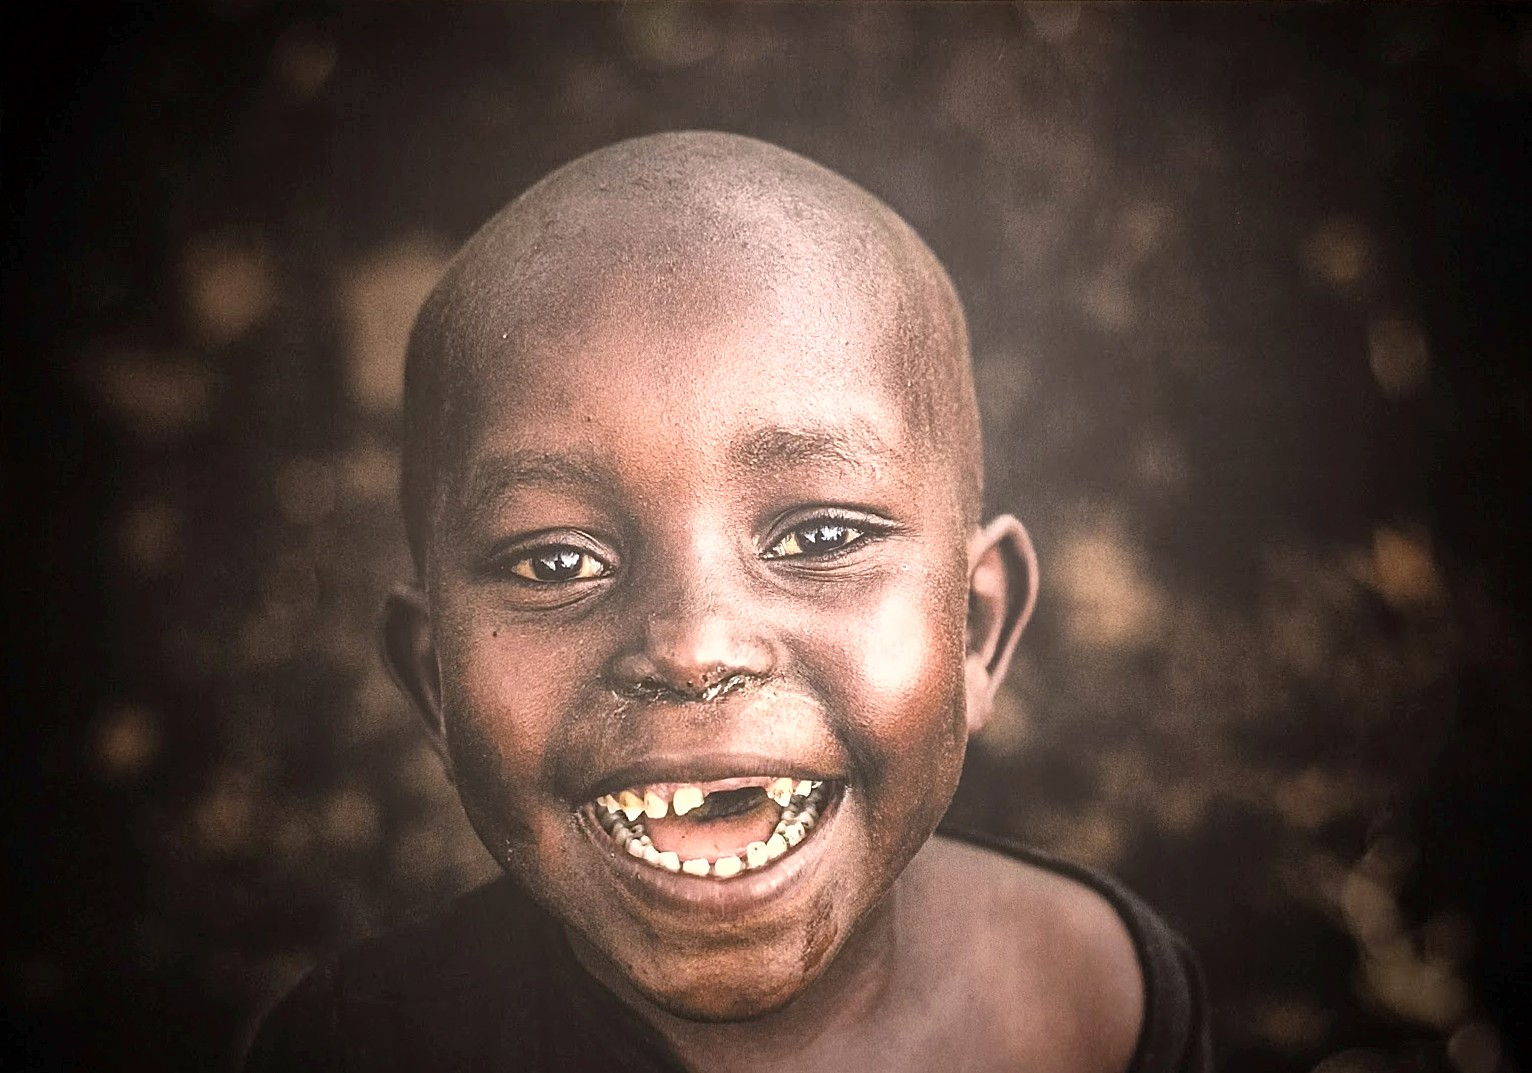
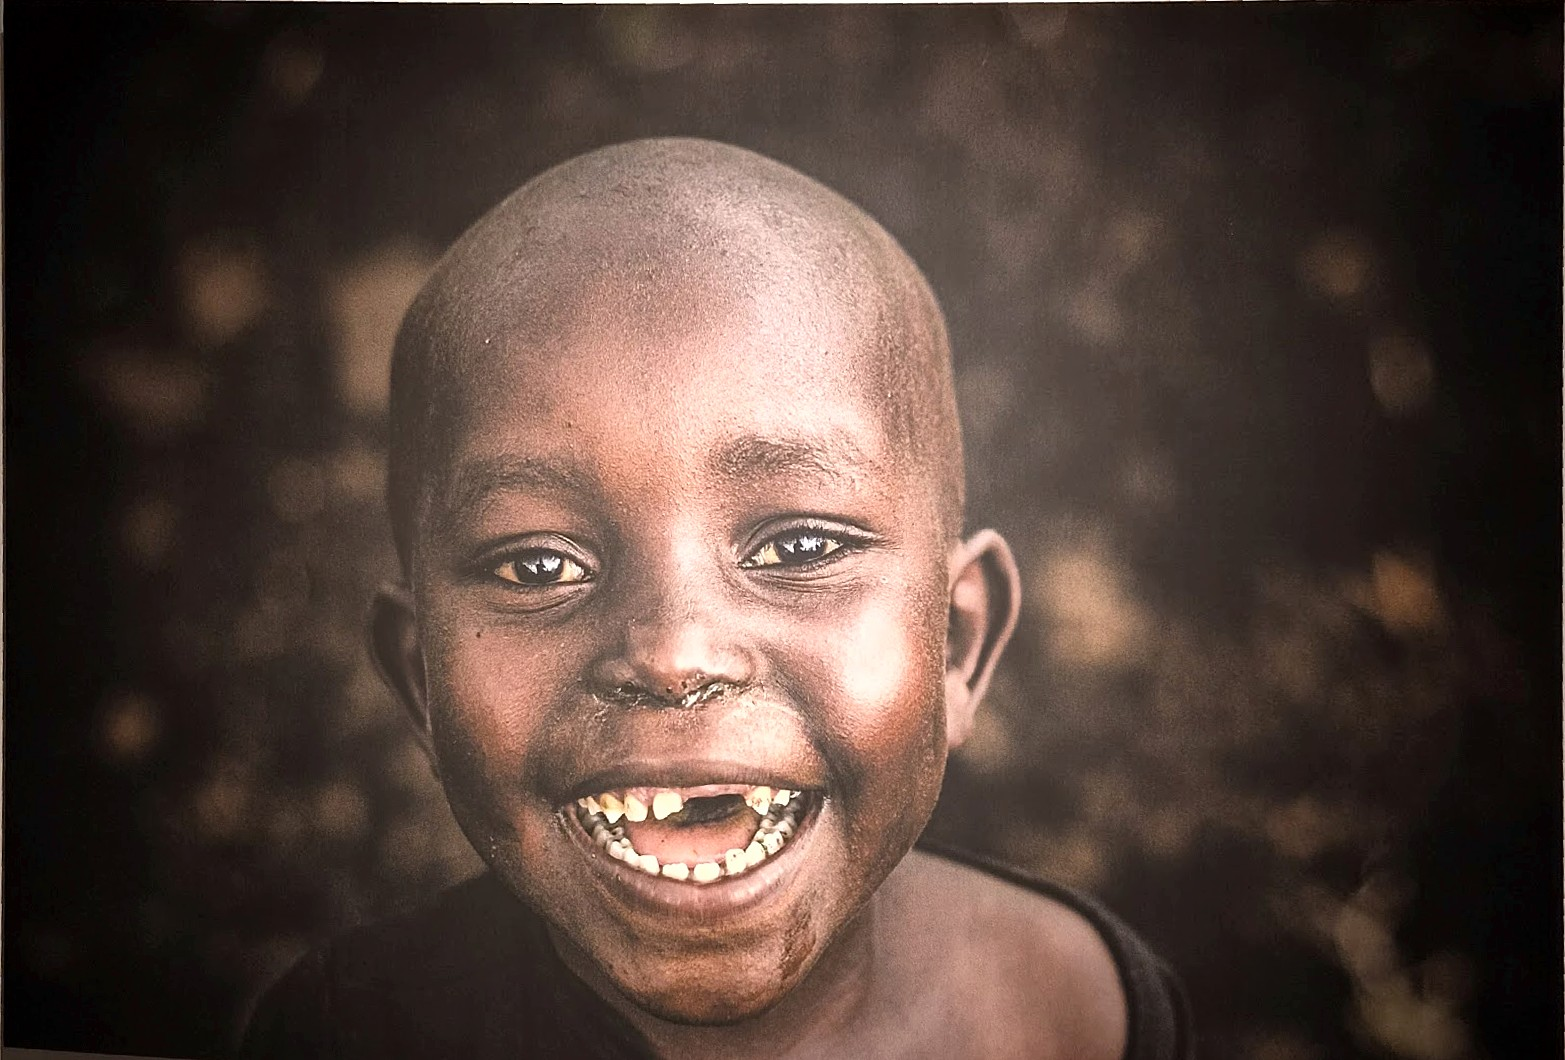
Photos: centrage et marges symetriques mesurees

diff --git a/scripts/enhance-photos.py b/scripts/enhance-photos.py
@@ -22,18 +22,18 @@ MAX_SIDE = 2000
 # wb : balance des blancs gris-moyen légère (désactivée pour les teintes d'auteur, ex. tirages chauds).
 CORNERS = {
     "celanie-1": ([(.035, .02), (.925, .02), (.925, .985), (.035, .985)], False),
-    "celanie-2": ([(.138, .14), (.878, .14), (.878, .935), (.138, .935)], False),
-    "kenof-1": ([(.02, .02), (.99, .02), (.99, .955), (.02, .955)], False),
-    "kenof-2": ([(.02, .03), (.99, .03), (.99, .955), (.02, .955)], False),
+    "celanie-2": ([(.138, .14), (.878, .14), (.878, .845), (.138, .845)], False),
+    "kenof-1": ([(.02, .02), (.99, .02), (.99, .945), (.02, .945)], False),
+    "kenof-2": ([(.02, .03), (.99, .03), (.99, .945), (.02, .945)], False),
     "kenof-3": ([(.02, .025), (.99, .025), (.99, .955), (.02, .955)], False),
     "morere-1": ([(.05, .1), (.95, .1), (.95, .96), (.05, .96)], True),
     "morere-2": ([(.03, .0), (.97, .0), (.97, .995), (.03, .995)], True),
-    "padua-1": ([(.025, .02), (.99, .015), (.985, .985), (.02, .98)], False),
+    "padua-1": ([(.025, .02), (.975, .015), (.975, .975), (.02, .975)], False),
     "padua-2": ([(.03, .035), (.99, .015), (.98, .95), (.02, .95)], False),
     "padua-3": ([(.02, .02), (.985, .025), (.985, .975), (.02, .975)], False),
-    "taylor-1": ([(.04, .025), (.975, .025), (.975, .975), (.04, .975)], False),
-    "taylor-2": ([(.02, .03), (.975, .03), (.975, .94), (.015, .945)], False),
-    "taylor-3": ([(.06, .025), (.94, .025), (.94, .95), (.05, .955)], False),
+    "taylor-1": ([(.04, .025), (.955, .025), (.955, .965), (.04, .965)], False),
+    "taylor-2": ([(.02, .03), (.975, .03), (.975, .93), (.015, .935)], False),
+    "taylor-3": ([(.06, .045), (.93, .045), (.93, .925), (.05, .93)], False),
     }
 
 def rectify(img, quad):
@@ -69,11 +69,125 @@ def sharpen(img):
     return cv2.addWeighted(img, 1.35, blur, -0.35, 0)
 
 
+PAD = 0.035  # le quadrilatère de départ est élargi de ce ratio avant affinage
+SEARCH = 0.06  # demi-largeur de recherche du bord (fraction de la dimension)
+INSET = -3  # px laissés au-delà du bord détecté : on ne coupe jamais l'œuvre
+# bords ambigus (passe-partout, vitrine) : recherche restreinte autour de l'amorce
+TIGHT = {"celanie-1": (0.0, 0.012), "celanie-2": (0.0, 0.015), "taylor-1": (0.0, 0.012), "padua-1": (0.0, 0.015), "taylor-3": (0.0, 0.012), "taylor-2": (0.0, 0.015), "kenof-1": (0.0, 0.012), "kenof-2": (0.0, 0.012)}
+SCULPTURES = {"morere-1", "morere-2"}  # sans bord net : centrage sur l'objet + marge uniforme
+SCULPT_MARGIN = 0.07
+
+
+def expand(quad, pad):
+    c = np.mean(quad, axis=0)
+    return [tuple(c + (np.array(p) - c) * (1 + 2 * pad)) for p in quad]
+
+
+def refine_quad(gray, quad, search=SEARCH):
+    """Ajuste chaque côté sur le vrai bord (gradient max, droite robuste) puis intersecte."""
+    h, w = gray.shape
+    g = cv2.GaussianBlur(gray.astype(np.float32), (0, 0), 2.5)
+    pts = np.array([(x * w, y * h) for x, y in quad], dtype=np.float64)
+    lines = []
+    for i in range(4):
+        a, b = pts[i], pts[(i + 1) % 4]
+        d = b - a
+        length = np.linalg.norm(d)
+        t = d / length
+        n = np.array([-t[1], t[0]])
+        c = pts.mean(axis=0)
+        if np.dot(n, a - c) < 0:
+            n = -n  # normale vers l'extérieur
+        rad = search * min(w, h)
+        offs = np.arange(-rad, rad + 1, 1.0)
+        found = []
+        for s in np.linspace(0.12, 0.88, 13):
+            base = a + d * s
+            vals = []
+            for o in offs:
+                acc = 0.0
+                for k in (-6, -3, 0, 3, 6):
+                    p = base + n * o + t * k
+                    x = int(np.clip(round(p[0]), 0, w - 1))
+                    y = int(np.clip(round(p[1]), 0, h - 1))
+                    acc += g[y, x]
+                vals.append(acc / 5)
+            grad = np.abs(np.gradient(np.array(vals)))
+            found.append(base + n * offs[int(np.argmax(grad))])
+        found = np.array(found, dtype=np.float32)
+        vx, vy, x0, y0 = cv2.fitLine(found, cv2.DIST_HUBER, 0, 0.01, 0.01).ravel()
+        lines.append((np.array([x0, y0]), np.array([vx, vy])))
+    corners = []
+    for i in range(4):
+        p1, d1 = lines[i - 1]
+        p2, d2 = lines[i]
+        m = np.array([d1, -d2]).T
+        s = np.linalg.solve(m, p2 - p1)
+        corners.append(p1 + d1 * s[0])
+    out = np.array(corners)
+    # rentre légèrement pour éviter les liserés
+    c = out.mean(axis=0)
+    out = out + (c - out) / np.linalg.norm(c - out, axis=1, keepdims=True) * INSET
+    return [(x / w, y / h) for x, y in out]
+
+
+def residual_margins(img):
+    """Distance (px) entre chaque bord de l'image et le plus fort gradient dans la bande extérieure (≈ liseré restant)."""
+    g = cv2.GaussianBlur(cv2.cvtColor(img, cv2.COLOR_BGR2GRAY).astype(np.float32), (0, 0), 2)
+    h, w = g.shape
+    bh, bw = max(4, int(h * 0.04)), max(4, int(w * 0.04))
+    prof = {
+        "G": g[int(h * .2):int(h * .8), :bw].mean(axis=0),
+        "D": g[int(h * .2):int(h * .8), w - bw:].mean(axis=0)[::-1],
+        "H": g[:bh, int(w * .2):int(w * .8)].mean(axis=1),
+        "B": g[h - bh:, int(w * .2):int(w * .8)].mean(axis=1)[::-1],
+    }
+    res = {}
+    for k, v in prof.items():
+        gr = np.abs(np.gradient(v))
+        res[k] = int(np.argmax(gr)) if gr.max() > 3 else 0
+    return res
+
+
+def sculpture_bbox(img):
+    bg = cv2.medianBlur(cv2.resize(img, None, fx=.25, fy=.25), 51)
+    bg = cv2.resize(bg, (img.shape[1], img.shape[0]))
+    diff = cv2.cvtColor(cv2.absdiff(img, bg), cv2.COLOR_BGR2GRAY)
+    mask = (cv2.GaussianBlur(diff, (0, 0), 3) > 14).astype(np.uint8)
+    mask = cv2.morphologyEx(mask, cv2.MORPH_CLOSE, np.ones((25, 25), np.uint8))
+    ys, xs = np.where(mask)
+    x0, x1 = np.percentile(xs, (0.3, 99.7)).astype(int)
+    y0, y1 = np.percentile(ys, (0.3, 99.7)).astype(int)
+    return x0, x1, y0, y1
+
+
+def sculpture_crop(img):
+    x0, x1, y0, y1 = sculpture_bbox(img)
+    m = int(SCULPT_MARGIN * max(x1 - x0, y1 - y0))
+    x0, x1, y0, y1 = x0 - m, x1 + m, y0 - m, y1 + m
+    pad = max(0, -x0, -y0, x1 - img.shape[1], y1 - img.shape[0])
+    if pad:
+        img = cv2.copyMakeBorder(img, pad, pad, pad, pad, cv2.BORDER_REFLECT)
+        x0, x1, y0, y1 = x0 + pad, x1 + pad, y0 + pad, y1 + pad
+    return img[y0:y1, x0:x1], (m, m, m, m)
+
+
 def process(name, quad, wb):
     img = cv2.imread(str(SRC / f"{name}.jpg"))
-    img = rectify(img, quad)
+    if name in SCULPTURES:
+        img, _ = sculpture_crop(img)
+    else:
+        gray = cv2.cvtColor(img, cv2.COLOR_BGR2GRAY)
+        pad, search = TIGHT.get(name, (PAD, SEARCH))
+        quad = refine_quad(gray, refine_quad(gray, expand(quad, pad), search), search)
+        img = rectify(img, quad)
     if wb:
         img = white_balance(img)
+    if name in SCULPTURES:
+        x0, x1, y0, y1 = sculpture_bbox(img)
+        margins = {'G': x0, 'D': img.shape[1] - x1, 'H': y0, 'B': img.shape[0] - y1}
+    else:
+        margins = residual_margins(img)
     img = sharpen(tone(img))
     h, w = img.shape[:2]
     s = min(1.0, MAX_SIDE / max(h, w))
@@ -81,6 +195,7 @@ def process(name, quad, wb):
         img = cv2.resize(img, (round(w * s), round(h * s)), interpolation=cv2.INTER_AREA)
     rgb = cv2.cvtColor(img, cv2.COLOR_BGR2RGB)
     Image.fromarray(rgb).save(OUT / f"{name}.jpg", quality=90, optimize=True, progressive=True)
+    return (w, h), margins
 
 
 def sheet(path):
@@ -96,7 +211,9 @@ def sheet(path):
 
 
 if __name__ == "__main__":
+    print("oeuvre; taille px; liseré résiduel G/D/H/B px")
     for n, (q, wb) in CORNERS.items():
-        process(n, q, wb)
+        size, m = process(n, q, wb)
+        print(f"{n}; {size[0]}x{size[1]}; {m['G']}/{m['D']}/{m['H']}/{m['B']}")
     if "--sheet" in sys.argv:
         sheet(sys.argv[sys.argv.index("--sheet") + 1])

diff --git a/docs/HISTORY.md b/docs/HISTORY.md
@@ -63,3 +63,24 @@ Format : date — décision — raison. Ajouter les entrées en bas.
 - Script reproductible `scripts/enhance-photos.py` (OpenCV/Pillow) : redressement de perspective, recadrage au plus près, niveaux de luminance, netteté douce ; JPEG q90, 2000 px max. Aucune retouche créative ; balance des blancs seulement sur les céramiques (mur blanc), jamais sur les teintes d'auteur.
 - Originaux dans `scripts/photo-originals/` (gitignoré, hors déploiement).
 - Limites : Célanie 1 (vitrine, reflets sombres à droite) et Morère 1 (mur conservé, sculptures sans cadre) ne peuvent être nettoyés automatiquement.
+
+### Photos — v2 (centrage et marges symétriques)
+- Chaque bord est détecté par script (gradient + droite robuste sur 13 points, deux passes), redressement par les 4 coins ajustés, marge de sécurité de 3 px au-delà du bord (jamais de coupe de l'œuvre). Sculptures (Morère) : centrage sur le bbox de l'objet + marge uniforme 7 %.
+- Marges mesurées après recadrage (px, Gauche/Droite/Haut/Bas ; pour les œuvres planes = liseré résiduel autour des 3 px de sécurité, 0 = aucun bord détecté ; pour les sculptures = marge réelle autour de l'objet) :
+
+| Œuvre | Taille avant plafonnement | G/D/H/B |
+|---|---|---|
+| celanie-1 | 1437x2030 | 3/3/3/3 |
+| celanie-2 | 1173x1687 | 3/2/3/2 |
+| kenof-1 | 1565x1255 | 3/3/3/0 |
+| kenof-2 | 1562x1199 | 3/2/5/0 |
+| kenof-3 | 1561x1283 | 3/2/2/2 |
+| morere-1 | 1571x782 | 96/96/96/96 |
+| morere-2 | 1122x2698 | 165/165/165/165 |
+| padua-1 | 1555x2261 | 3/2/0/0 |
+| padua-2 | 1556x1131 | 3/2/2/0 |
+| padua-3 | 1555x2350 | 3/2/3/0 |
+| taylor-1 | 1480x2295 | 3/3/3/3 |
+| taylor-2 | 1565x1060 | 3/2/3/0 |
+| taylor-3 | 1443x2202 | 3/3/3/3 |
+- Limites : Célanie 1 garde des reflets de vitrine ; le bord noir sur noir reste approximatif.
